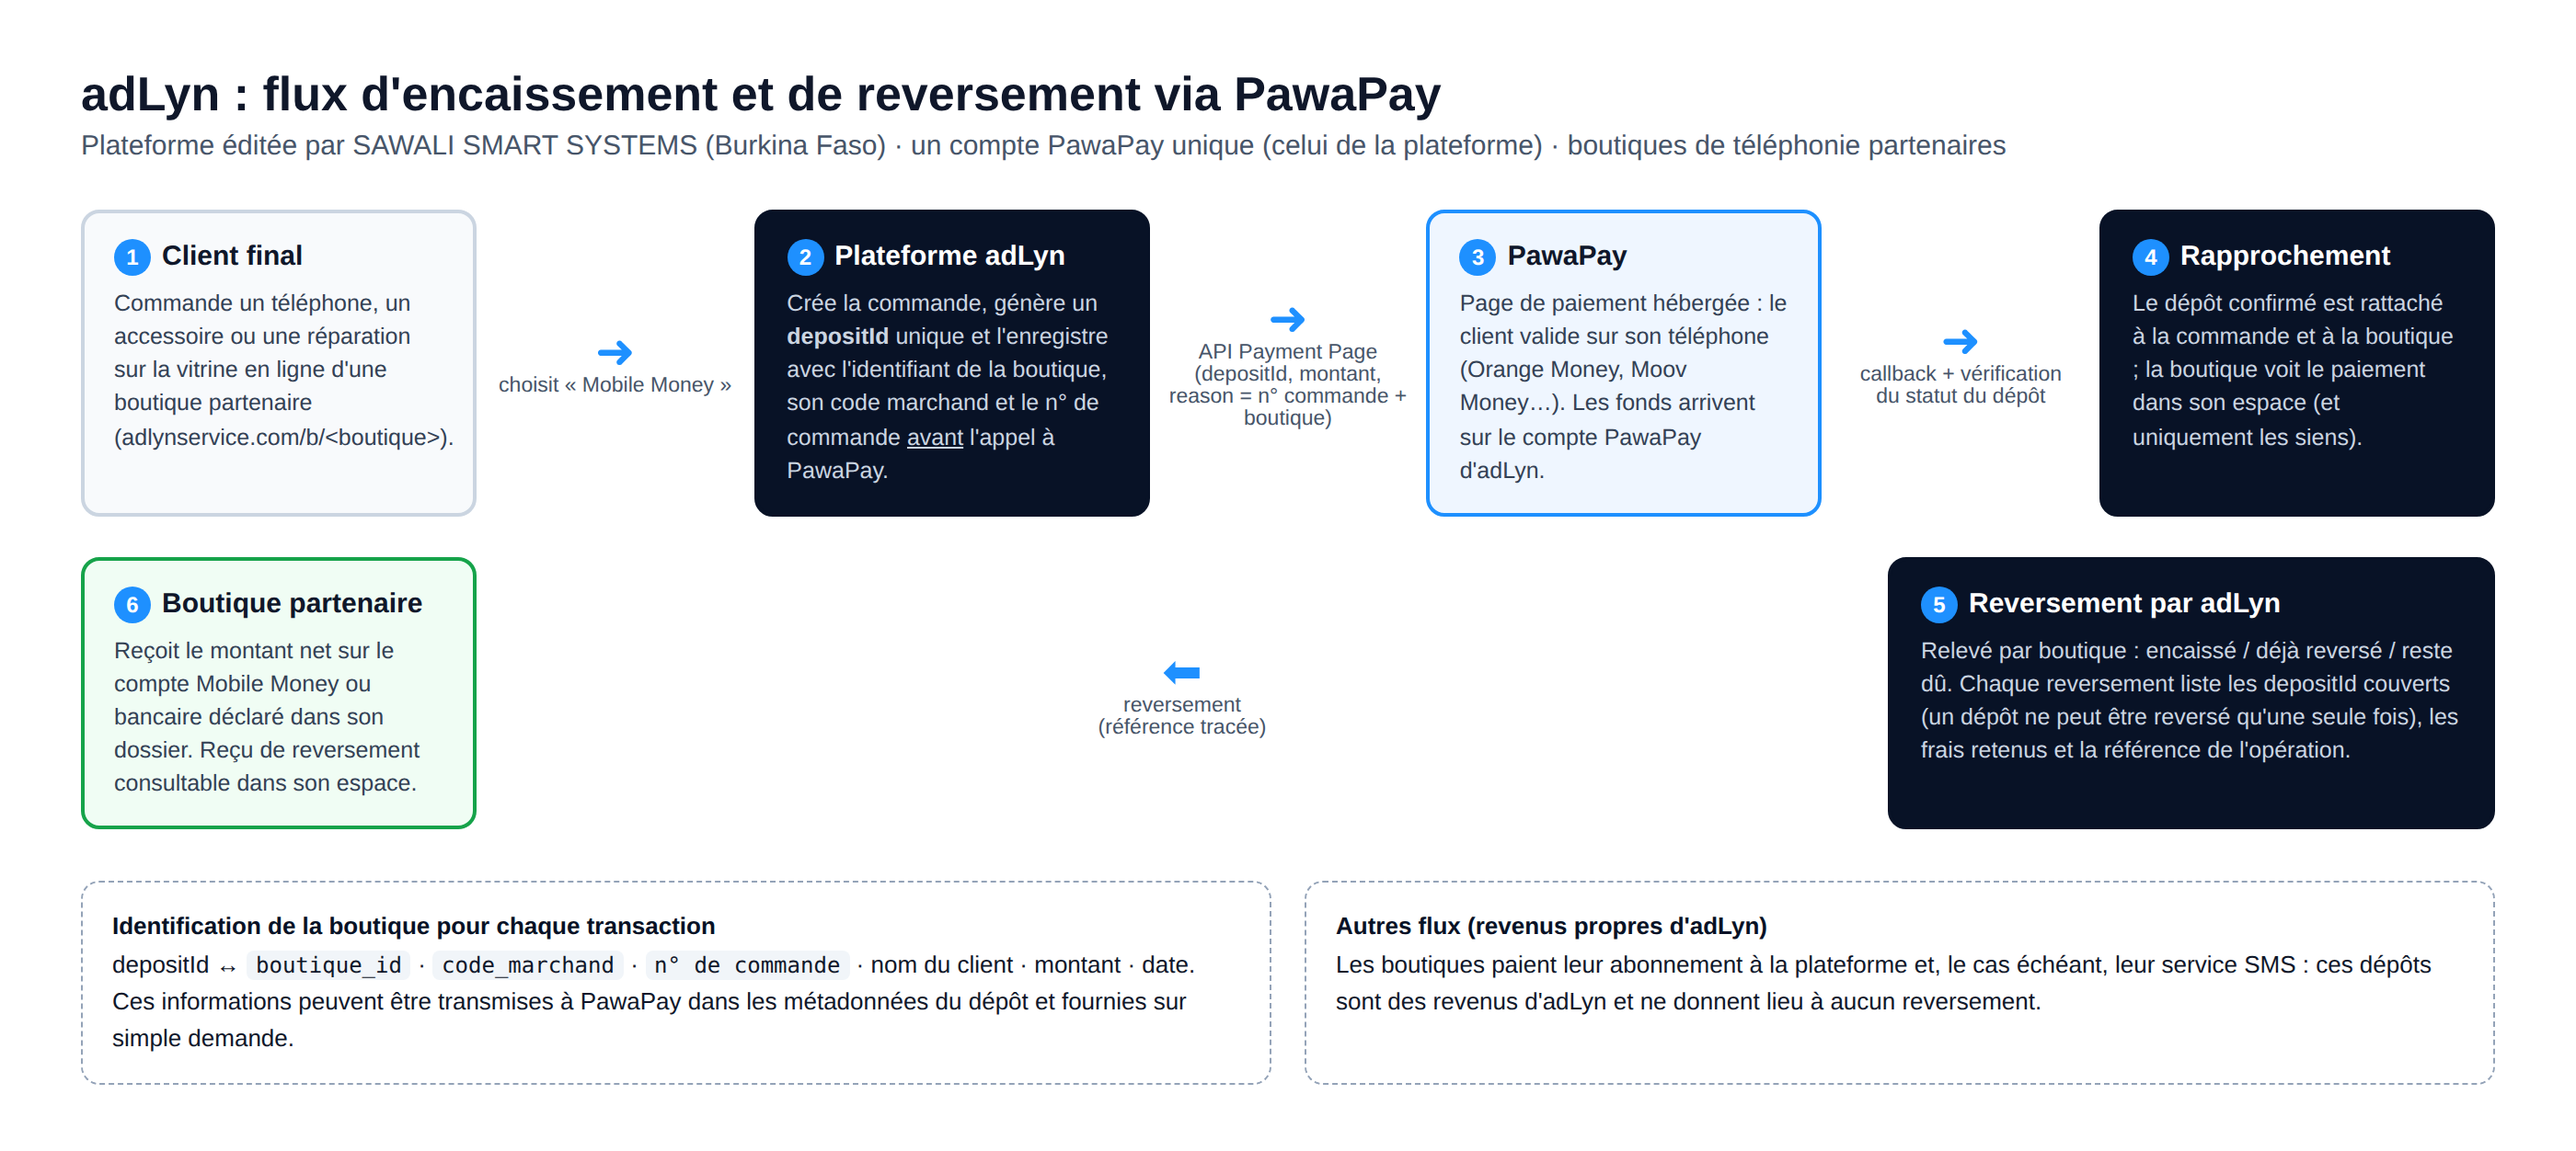
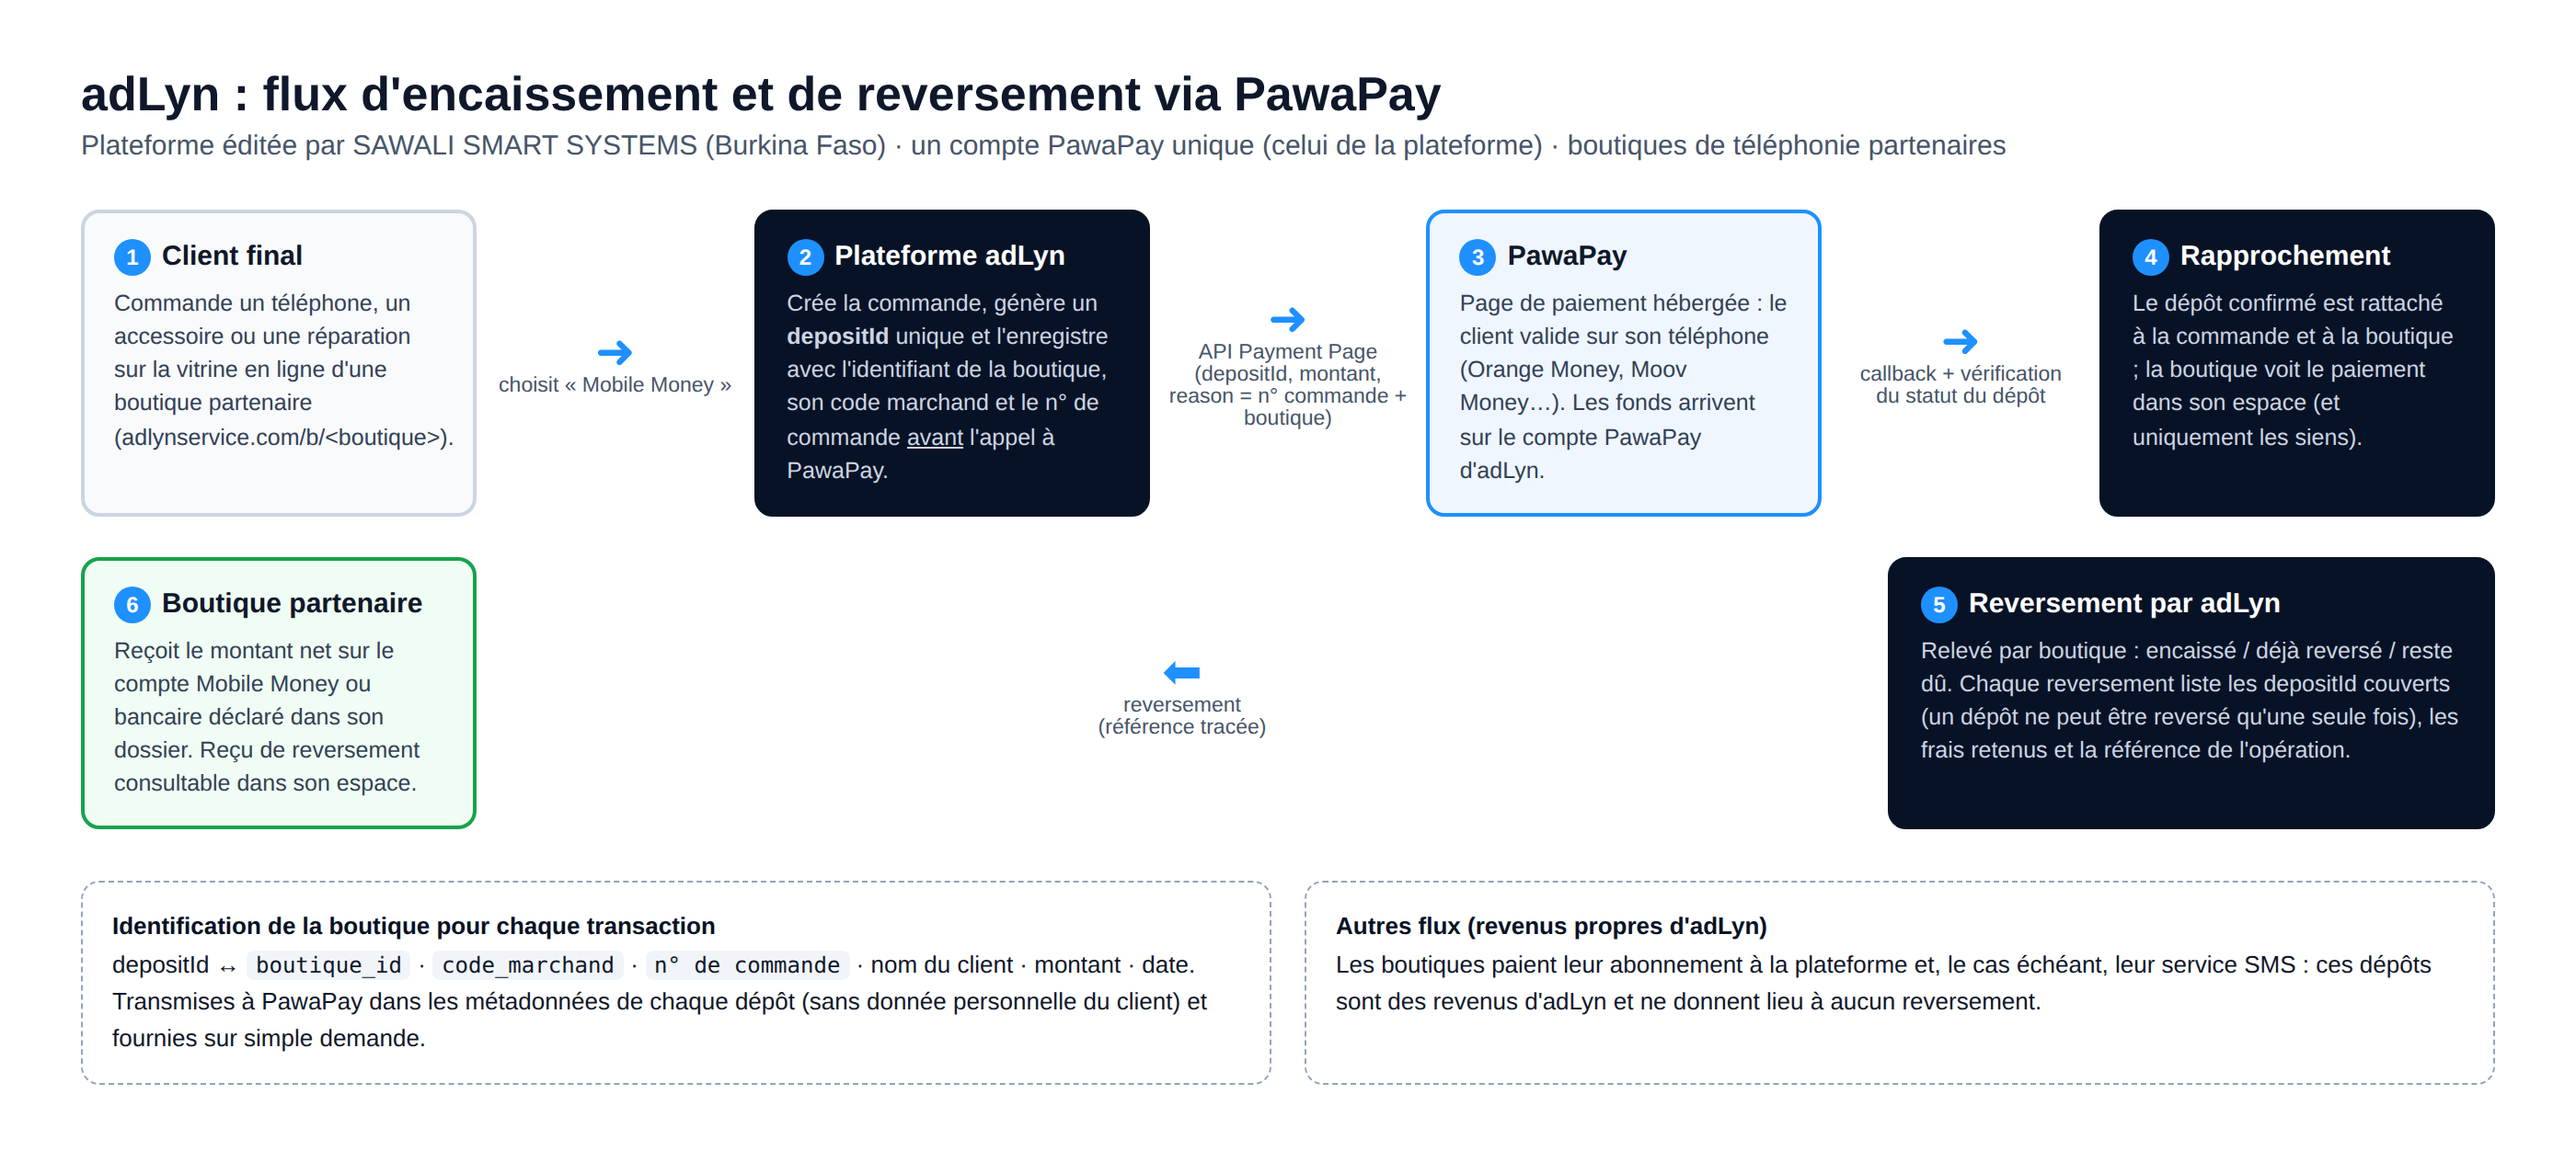
Réponse PawaPay : métadonnées désormais transmises (code marchand, boutique, commande)
Claude-Session: https://claude.ai/code/session_01FVtQuMgjikYRacDJo2sMuA

Changed region(s): [[0.0311, 0.8411, 0.4661, 0.9345]]

diff --git a/pawapay/schema.html b/pawapay/schema.html
@@ -42,7 +42,7 @@
 <div class="bloc">
   <div class="cadre"><b>Identification de la boutique pour chaque transaction</b><br>
   depositId ↔ <code>boutique_id</code> · <code>code_marchand</code> · <code>n° de commande</code> · nom du client · montant · date.<br>
-  Ces informations peuvent être transmises à PawaPay dans les métadonnées du dépôt et fournies sur simple demande.</div>
+  Transmises à PawaPay dans les métadonnées de chaque dépôt (sans donnée personnelle du client) et fournies sur simple demande.</div>
   <div class="cadre"><b>Autres flux (revenus propres d'adLyn)</b><br>
   Les boutiques paient leur abonnement à la plateforme et, le cas échéant, leur service SMS : ces dépôts sont
   des revenus d'adLyn et ne donnent lieu à aucun reversement.</div>
